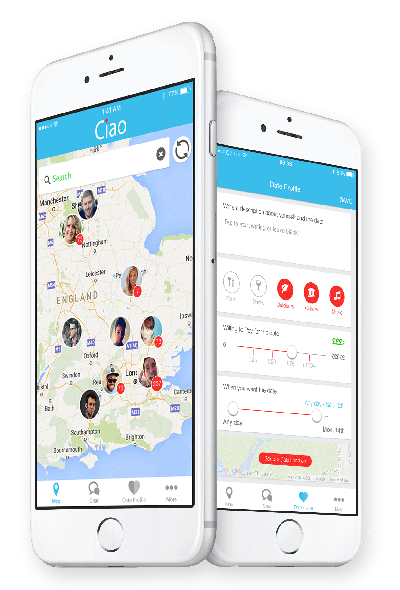
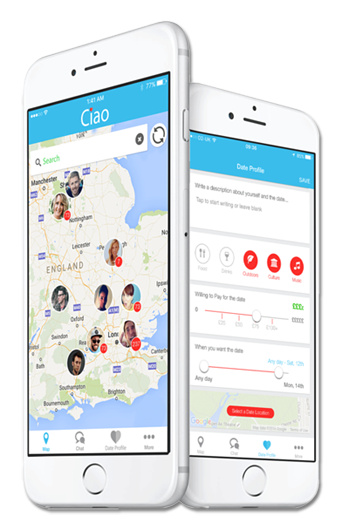
cases upd, smoother screens etc

diff --git a/src/data/casesData.js b/src/data/casesData.js
@@ -5,7 +5,7 @@ export default [
     name: 'Game Plan',
     slug: 'gameplan',
     tags: ['MVP', 'Startup', 'Education'],
-    text: 'Educational tool that uses software in the fields of data extraction, information interpretation, behavioral profile generation, entity matching, and machine learning. Recently it started to integrate with artificial intelligence-based technology and information from leading employers how to develop an understanding of patterns for career progression. ',
+    text: 'Educational tool that uses software in the fields of data extraction, information interpretation, behavioral profile generation, entity matching, and machine learning. Recently it started to integrate with artificial intelligence-based technology and information from leading employers how to develop an understanding of patterns for career progression.',
     keyObj: ['Analytical tools for determination of skills gap', 'Educational online courses', 'E-learning tools for business'],
     url: 'http://gameplanlearning.com',
   },
@@ -15,16 +15,16 @@ export default [
     slug: 'diamond-style',
     tags: ['E-commerce', 'Music'],
     text: 'Web-service for artists, music producers and media professionals using which they can find and buy digital products for music creations: beats, sound kits and online mixing&mastering services. ',
-    keyObj: ['online music streaming', 'responsive design (smartphones and tablets)', 'analytic tools for sales', 'distibuting system for digital content '],
+    keyObj: ['Online music streaming', 'Responsive design (smartphones and tablets)', 'Analytic tools for sales', 'Distributing system for digital content '],
     url: 'http://diamondstylepro.com',
   },
   {
-    imageBig: require('./cases/ciao.png'),
+    imageBig: require('./cases/ciao2.png'),
     name: 'Ciao Date',
     slug: 'ciao-date',
-    tags: ['Native App', 'Dating'],
-    text: 'Ciao is an event based dating app that is bringing romance back to dating. Find your date by filtering the type of date, location, day of the week and budget. Ciao is available on Apple App Store and Google Play',
-    keyObj: ['single page application', 'ionic framework app', 'search for users on the map', 'chat between users, etc'],
+    tags: ['Mobile Development', 'Dating'],
+    text: 'Ciao is an event based dating app that is bringing romance back to dating. Find your date by filtering the type of date, location, day of the week and budget. Ciao is available on Apple App Store and Google Play.',
+    keyObj: ['Single-page application', 'Ionic framework app', 'Editing options to customize user profiles ', 'Search for users on the map', 'Chat between users, etc'],
     url: 'http://www.ciaodate.com',
   },
   {
@@ -32,7 +32,7 @@ export default [
     name: 'Tifogo',
     slug: 'tifogo',
     tags: ['MVP', 'Startup', 'Social data aggregation'],
-    text: 'Tifogo is a place that has got it all. There is no need now to check every single website searching for news and other related info. Users have unique opportunity to access infomation about their favourite teams or players from different sources: websites, socia media, etc. Moreover one can find onsite structured analytical data as well as statistics, video and much more.',
+    text: 'Tifogo is a place that has got it all. There is no need now to check every single website searching for news and other related info. Users have unique opportunity to access infomation about their favourite teams or players from different sources: websites, socia media, etc.',
     keyObj: ['Soccer news aggregation from RSS and social media resources', 'Advanced search through news and posts onsite', 'Demonstrative statistics and accurate analytics about soccer teams and players', 'Universal(isomorphic) application', 'React.js & Rx.js used to make app real fast'],
     url: 'http://tifogo.com',
   },
@@ -42,17 +42,17 @@ export default [
     slug: 'hello-planet',
     tags: ['Travel', 'Startup', 'MVP'],
     text: 'HelloPlanet is an online community for travellers from around the world where you can create your own planet of trips, upload photos and of course make travel plans for future.',
-    keyObj: ['travel history and sharing', 'social networking features', 'travel planner '],
+    keyObj: ['Travel history and sharing', 'Social networking features', 'Travel planner '],
     url: 'http://www.helloplanet.com',
   },
   {
-    imageBig: require('./cases/photomaticBig.png'),
-    name: 'Probniki',
-    slug: 'probniki',
-    tags: ['SaaS', 'MVP', 'Startup', 'Photo'],
-    text: 'SaaS for photographers and their clients.',
-    keyObj: ['Creating photo-stories', 'Printing photos in photolabs', 'Sharing to friends and relatives', 'Single-page application', 'Advanced photo processing'],
-    url: 'http://pm.dev.ephyros.com',
+    imageBig: require('./cases/lifeprints.png'),
+    name: 'LifePrints',
+    slug: 'lifeprints',
+    tags: ['MVP', 'Startup', 'Photo'],
+    text: 'Service to store photos with the best moments of your life. You can share your photo-stories with your family and friends and order professional photo printing. ',
+    keyObj: ['Single-page application', 'Creating photo-stories', 'Printing photos in photolabs', 'Sharing with friends and relatives', 'Advanced photo processing'],
+    url: 'http://lifeprints.me',
   },
   {
     imageBig: require('./cases/cpbig.png'),

diff --git a/src/styles/pages/work/_work-item.sass b/src/styles/pages/work/_work-item.sass
@@ -23,6 +23,9 @@
   color: #333333
   font-size: 16px
   padding-top: 20px
+  ul
+    list-style: outside
+    padding-left: 20px
   +media(pho-ptab)
     display: block
     width: auto
